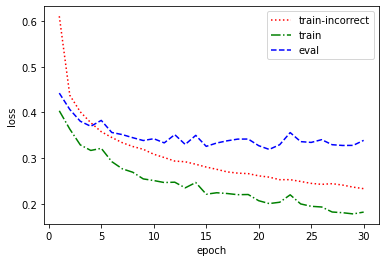
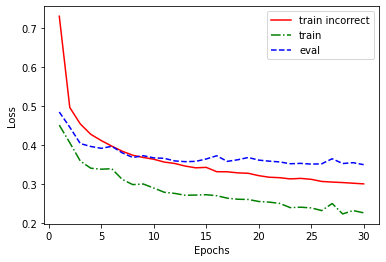
Algunas imagenes para el informe

diff --git a/practico12.py b/practico12.py
@@ -9,8 +9,6 @@ import torch
 import torch.nn as nn
 from torchvision import datasets, transforms
 
-from dataset import plot_network_topology
-
 device = torch.device("cuda" if torch.cuda.is_available() else "cpu")
 
 print(f"Using {device} device")
@@ -82,11 +80,10 @@ def generate_data(batch_size):
 
 
 class NeuralNetwork(nn.Module):
-    def __init__(self, input_size=2, hidden_sizes=[64, 64], output_size=3, dropout=0.2):
+    def __init__(self, input_size, hidden_sizes, output_size, dropout):
         super().__init__()
-        layers = []
         prev_size = input_size
-        layers.append(nn.Flatten())
+        layers = [nn.Flatten()]
         for size in hidden_sizes:
             layers.append(nn.Linear(prev_size, size))
             layers.append(nn.ReLU())
@@ -160,18 +157,15 @@ def eval_loop(dataloader, model, loss_fn, verbose=False):
 
 
 if __name__ == "__main__":
-    # mas o menos la red tiene esta pinta
-    plot_network_topology([32, 16, 10, 6])
-
     ####################################
     # Hiperparametros a testear:
-
-    batch_size = 100  #  500, 1000,
-    dropout = 0.2  #  0.1, 0.5
-    lr = 1e-3  #  2e-3, 5e-3
-    epochs = 30  # 15, 100
-    hidden_sizes = [64, 32]  # [128], [256], [64, 32] [64, 32, 32]
-    optimizer_option = 1  # 1:SGD 2:Adam
+                             # Algunos parametros para probar
+    batch_size = 100         # 500, 1000,
+    dropout = 0.2            # 0.1, 0.5
+    lr = 1e-3                # 2e-3, 5e-3
+    epochs = 30              # 15, 100
+    hidden_sizes = [128, 64] # [128], [256], [64, 32] [64, 32, 32]
+    optimizer_option = 2     # 1:SGD 2:Adam
 
     ####################################
     input_size = 28 * 28

diff --git a/dataset.py b/dataset.py
@@ -45,7 +45,7 @@ def plot_loss(x, y):
     plt.show()
 
 
-def plot_network_topology(layer_sizes):
+def plot_network_topology(layer_sizes, title):
     G = nx.DiGraph()
     pos = {}
     node_count = 0
@@ -70,16 +70,16 @@ def plot_network_topology(layer_sizes):
         node_counter += layer_sizes[i]
 
     # Dibujar la red
-    plt.figure(figsize=(12, 6))
+    plt.figure(figsize=(6, 4))
     nx.draw(
         G,
         pos,
         with_labels=False,
-        node_size=400,
+        node_size=100,
         node_color="lightblue",
         edge_color="gray",
     )
-    plt.title("Topología de la red neuronal")
+    plt.title(title)
     plt.show()
 
 
